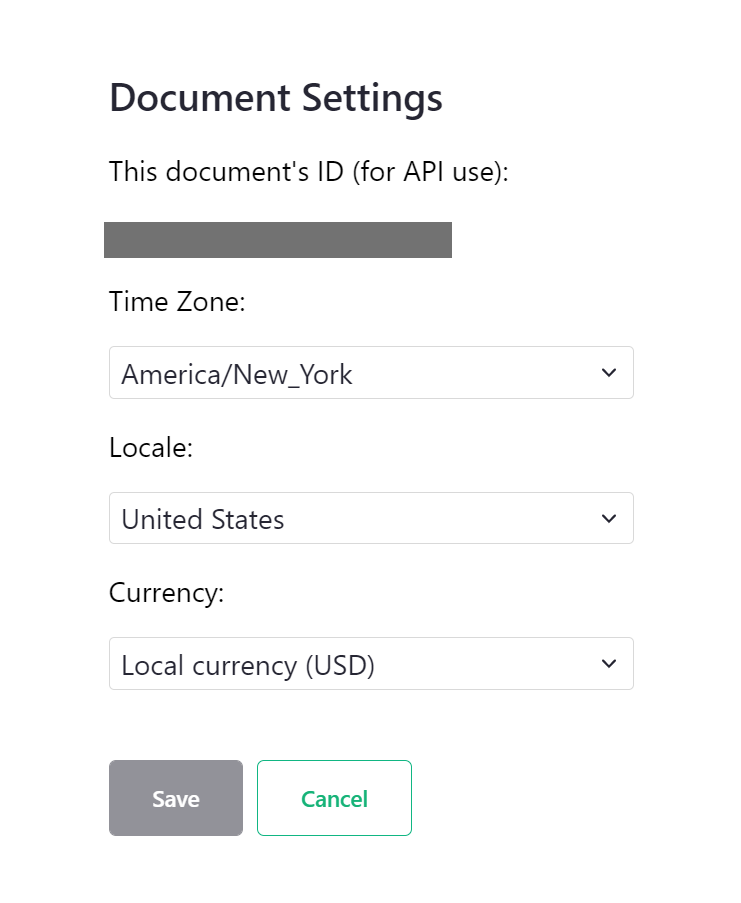
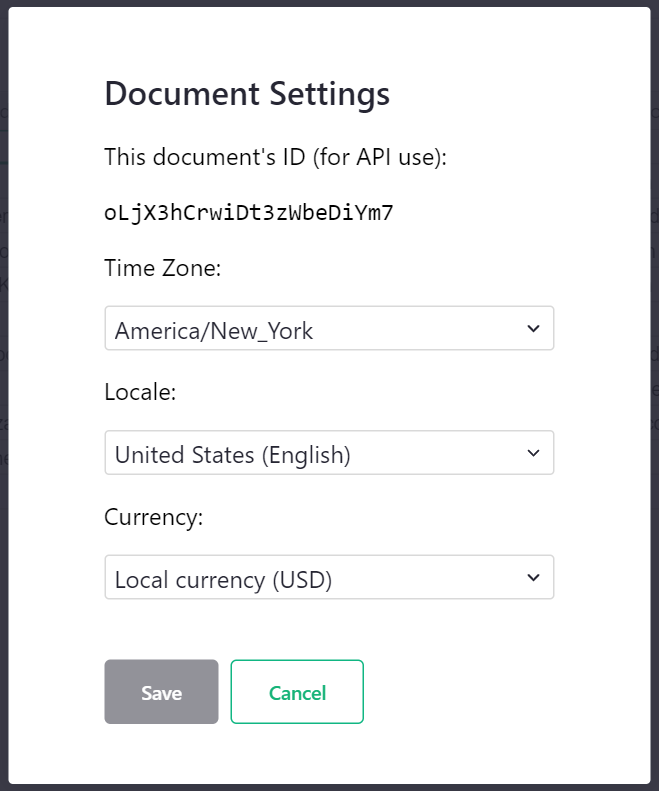
resolvin dmitry's comments

diff --git a/help/col-types.md b/help/col-types.md
@@ -153,7 +153,7 @@ increasing/decreasing the number.
 
 The options under NUMBER FORMAT include:
 
-- `$`: Format for currency amounts. Selecting the `$` will add a currency prefix, thousands separators, and default to 2 digits after the decimal point. It will also open a currency selector for international currencies.
+- `$`: Format for currency amounts, such as dollars or euro. Selecting the `$` will add a currency prefix, thousands separators, and default to 2 digits after the decimal point. It will also open a currency selector for international currencies.
 
   *![Format numeric](images/columns/columns-format-currency.png)*
   {: .screenshot-half }

diff --git a/help/creating-doc.md b/help/creating-doc.md
@@ -54,7 +54,7 @@ While a document is open, you can access the document's settings from the user m
 *![document-settings](images/document-settings.png){: .screenshot4}*
 {: .screenshot-half }
 
-There you can find the document's API key, as well as set the default timezone, locale, and currency for the document.
+There you can find the document's ID for API use, as well as set the default timezone, locale, and currency for the document.
 
 *![document-settings-details](images/document-settings-details.png){: .screenshot4}*
 {: .screenshot-half }
